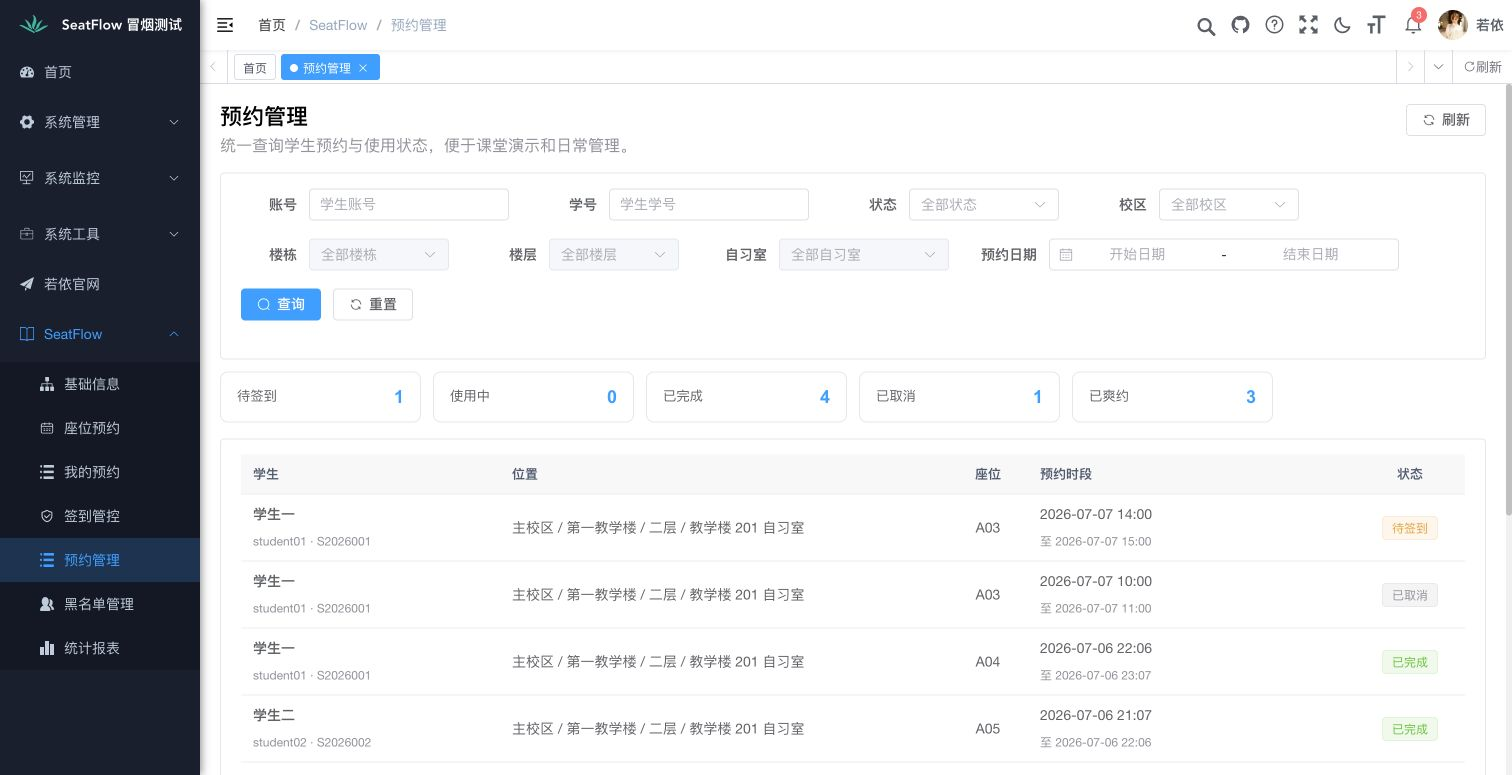
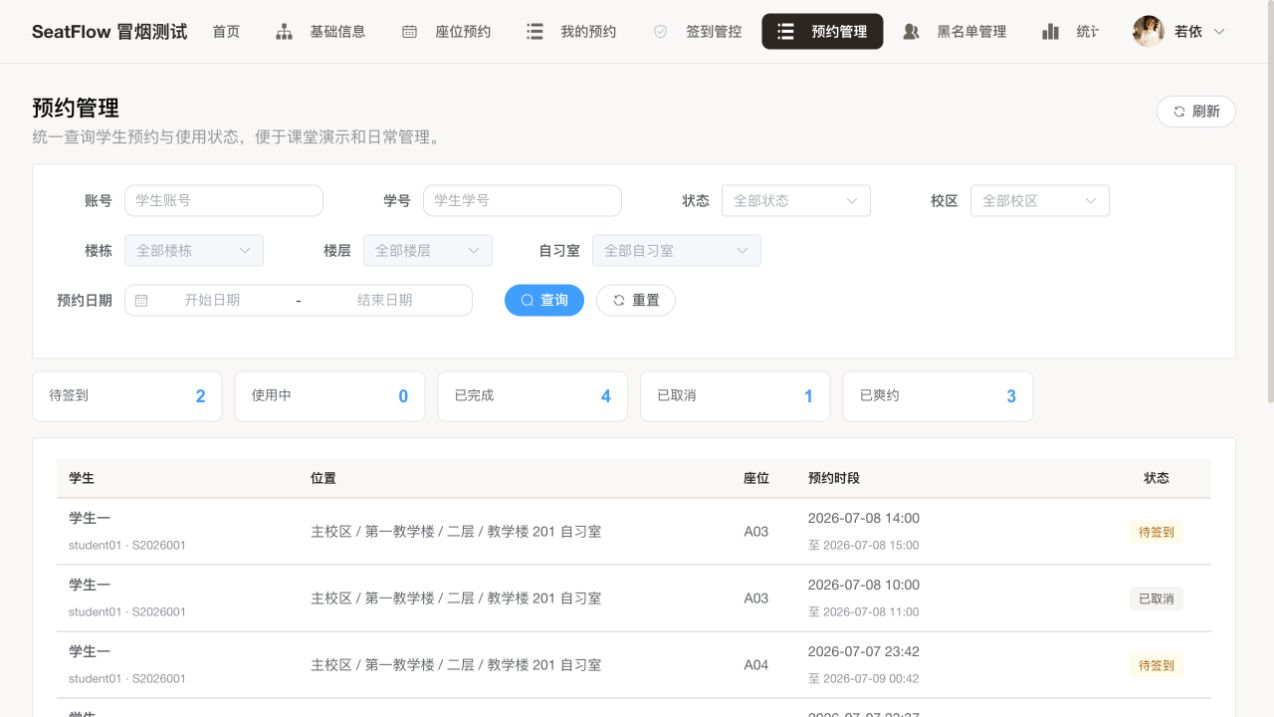
docs: refresh experiment evidence

diff --git a/docs/实验报告.md b/docs/实验报告.md
@@ -13,7 +13,7 @@
 
 SeatFlow 面向校园自习室预约场景，目标是让管理员能维护学习空间、处理预约与信用记录，让学生能完成预约、取消、签到和结束使用。项目保留若依的登录、菜单和权限体系，采用单体架构，重点练习分层设计、事务控制、定时任务、前后端联调与自动化测试。
 
-首页根据角色给出不同入口。管理员关注空间、预约、信用和报表，学生关注预约、签到与个人记录，避免把无权限功能暴露在菜单中。
+课程验收阶段以“流程打通、界面可演示、结果可复现”为准。顶部导航按角色收敛，学生只保留预约、我的预约和签到管控；管理员可进入基础信息、预约管理、信用管理和统计报表。首页继续保留课程展示入口，真正的权限约束由菜单与后端接口共同兜底。
 
 ![管理员首页](./images/experiment/01-admin-dashboard.png)
 
@@ -55,11 +55,11 @@ flowchart LR
 
 ## 三、核心实现
 
-预约页按“选择空间与时间—查询座位—确认预约”组织操作，并提供明日快捷时段。提交时会校验开放时间、每日限次、学生时间冲突、座位冲突和黑名单；座位冲突使用事务内加锁避免并发重复预约。
+预约页按“选择空间与时间—查询座位—确认预约”组织操作，并提供明日快捷时段。提交时会校验开放时间、每日限次、学生时间冲突、座位冲突和黑名单；座位冲突使用事务内加锁避免并发重复预约。验收时使用真实页面完成筛选、查座和取消，保证演示链路不是只靠接口脚本自说自话。
 
 ![学生座位预约](./images/experiment/06-student-reservation.png)
 
-学生可在开始后 15 分钟内签到，也可提前结束使用。Quartz 将超过签到截止时间的预约标记为爽约，将超过结束时间且仍在使用的预约自动完成。累计三次爽约后学生进入黑名单；管理员解除时清零计数并恢复预约资格，历史记录继续保留。
+学生可在开始后 15 分钟内签到，也可提前结束使用。Quartz 将超过签到截止时间的预约标记为爽约，将超过结束时间且仍在使用的预约自动完成。累计三次爽约后学生进入黑名单；管理员解除时清零计数并恢复预约资格，历史记录继续保留。真实冒烟已覆盖“签到成功、手动结束、Quartz 自动完成、三次爽约拉黑、管理员解除恢复”这一整条控制链。
 
 ![签到与信用进度](./images/experiment/07-student-control.png)
 
@@ -67,7 +67,7 @@ flowchart LR
 
 ![预约总览](./images/experiment/03-reservation-management.png)
 
-![爽约记录](./images/experiment/04-credit-violations.png)
+![信用管理](./images/experiment/04-credit-violations.png)
 
 ![统计报表](./images/experiment/05-statistics-report.png)
 
@@ -75,21 +75,20 @@ flowchart LR
 
 | 检查项 | 结果 |
 | --- | --- |
-| SeatFlow Service 单元测试 | 26 项通过 |
-| 独立 MySQL Playwright 冒烟 | 4 个完整场景通过 |
-| Chrome 人工可视验收 | 管理员、学生页面及权限通过 |
+| `mvn -pl ruoyi-seatflow -am test` | 28 项通过 |
+| `cd seatflow-ui && npm run build:prod` | 通过 |
+| `cd seatflow-ui && npm run smoke` | 独立 `seatflow_smoke` 数据库 4 个完整场景通过 |
+| 浏览器人工可视验收 | 管理员首页、空间管理、预约管理、信用管理、统计报表、学生预约、签到管控已逐页检查 |
 | 浏览器控制台 | 未发现错误日志 |
-| SeatFlow ESLint 与前端生产构建 | 通过 |
-| Spotless 与 Maven 全量测试 | 通过 |
 
-冒烟测试使用独立的 `seatflow_smoke` 数据库，重置脚本会拒绝普通库名，防止清理开发数据。场景覆盖空间和座位生成、预约与取消、两人抢同一座位、签到与手动/自动完成、三次爽约拉黑、解除恢复、学生菜单隔离、管理员接口 403、预约总览和报表数据。
+真实冒烟统一从 `npm run smoke` 进入，内部调用 `scripts/smoke/run.sh`，会重置独立 `seatflow_smoke` 数据库、启动 smoke profile 后端与前端，再执行 4 个 Playwright 场景。重置脚本会拒绝普通库名，避免误清开发库。场景覆盖空间维护、预约与取消、两人抢同一座位、签到与手动/自动完成、三次爽约拉黑、解除恢复、学生顶部菜单隔离、管理员接口 403、预约总览和报表数据。
 
 ## 五、问题修复
 
-联调中发现黑名单查询在关闭下划线自动映射时，部分字段会返回空值。原因是 SQL 别名未与 Java 属性名完全对应，现已改为显式别名，并用真实 MySQL 冒烟覆盖。浏览器测试还发现账号切换后必须重新加载动态权限路由；正常登录流程已验证学生只显示预约、我的预约和签到管控。
+本轮收尾主要收掉三类问题。其一，验收入口一度前后不一，文档写 `npm run smoke`，实际却要手工执行脚本；现已统一为 `npm run smoke -> scripts/smoke/run.sh`，README、测试计划和自测文档也一并对齐。其二，真实冒烟中直接写库的签到种子和后端 `GMT+8` 时间基准存在错位，Quartz 会把待签到记录误判成爽约；现已改成按应用时区生成明确时间，烟测第三条链路稳定通过。其三，页面文案和可访问名称经历过一轮调整，例如“欢迎回来”“新增校区”“立即签到”“确定”按钮空格等，Playwright 断言已按现状收敛，避免把旧选择器当绊脚石。
 
-为提高可读性，SeatFlow Java 代码统一构造器注入和 Google Java Format，复杂事务、并发锁与状态迁移保留简洁中文注释。前端仅检查 SeatFlow 页面，未批量改动若依上游代码。
+另外，学生首页保留了课程展示入口，如果直接用首页文案判断权限，很容易张冠李戴；本轮可视验收改为检查顶部导航和受限接口，避免把展示入口误写成权限问题。整个修复范围始终围绕课程项目主链路，没有另起炉灶去扩新模块。
 
 ## 六、项目总结
 
-项目已形成“维护空间—预约座位—签到使用—结束或超时—信用处理—统计分析”的完整闭环。实现没有追求生产级微服务或复杂中间件，而是把课程项目最容易出错的权限、时间、并发和状态边界做成可重复测试。后续若继续扩展，可加入预约通知和更细的开放日历，但当前版本已满足小组展示与实验验收需要。
+项目已形成“维护空间—预约座位—签到使用—结束或超时—信用处理—统计分析”的完整闭环。实现没有追求生产级微服务或复杂中间件，而是把课程项目最容易翻车的权限、时间、并发和状态边界做成可重复测试，并用真实截图与真实冒烟结果留痕。当前版本已经满足小组展示、实验报告和课程验收需要。
